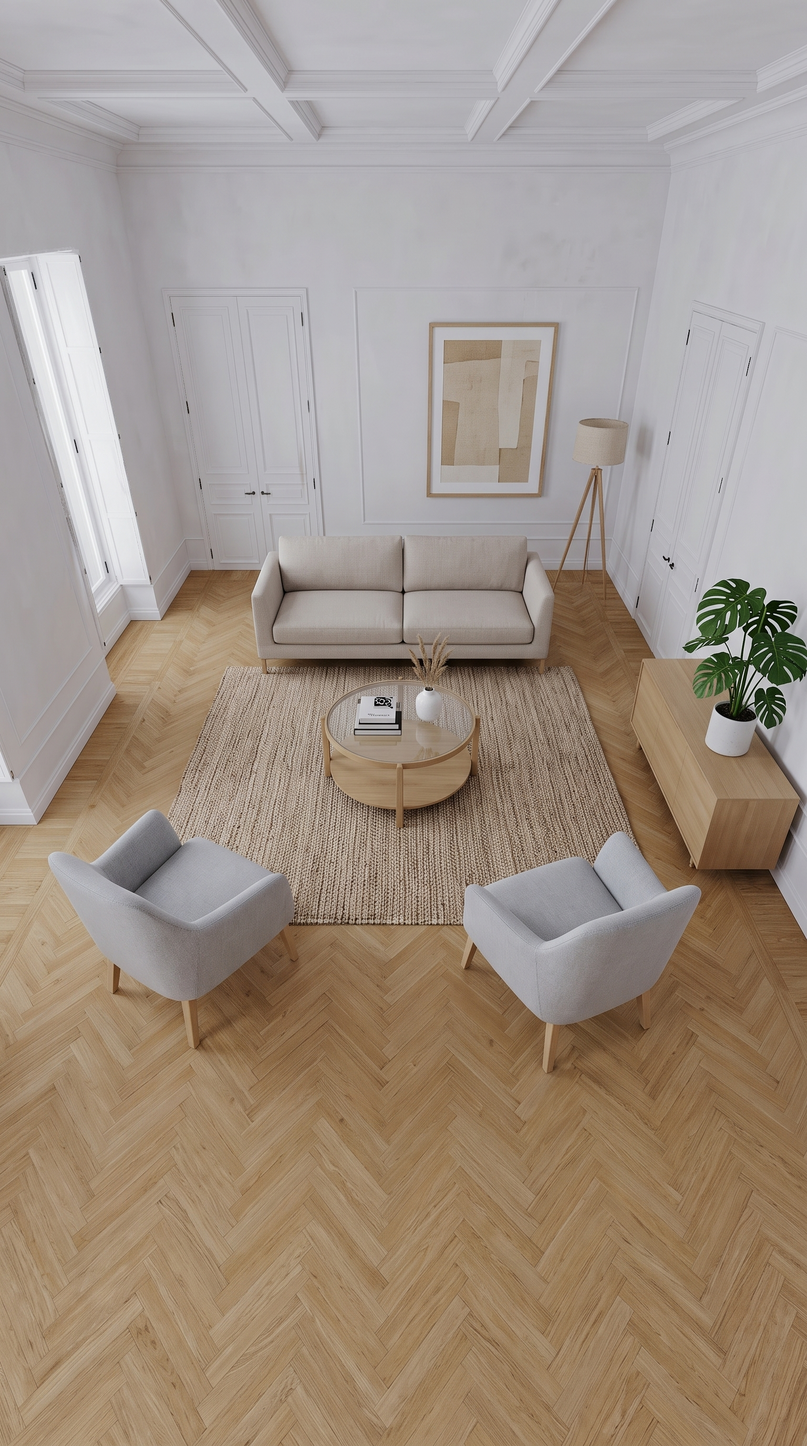
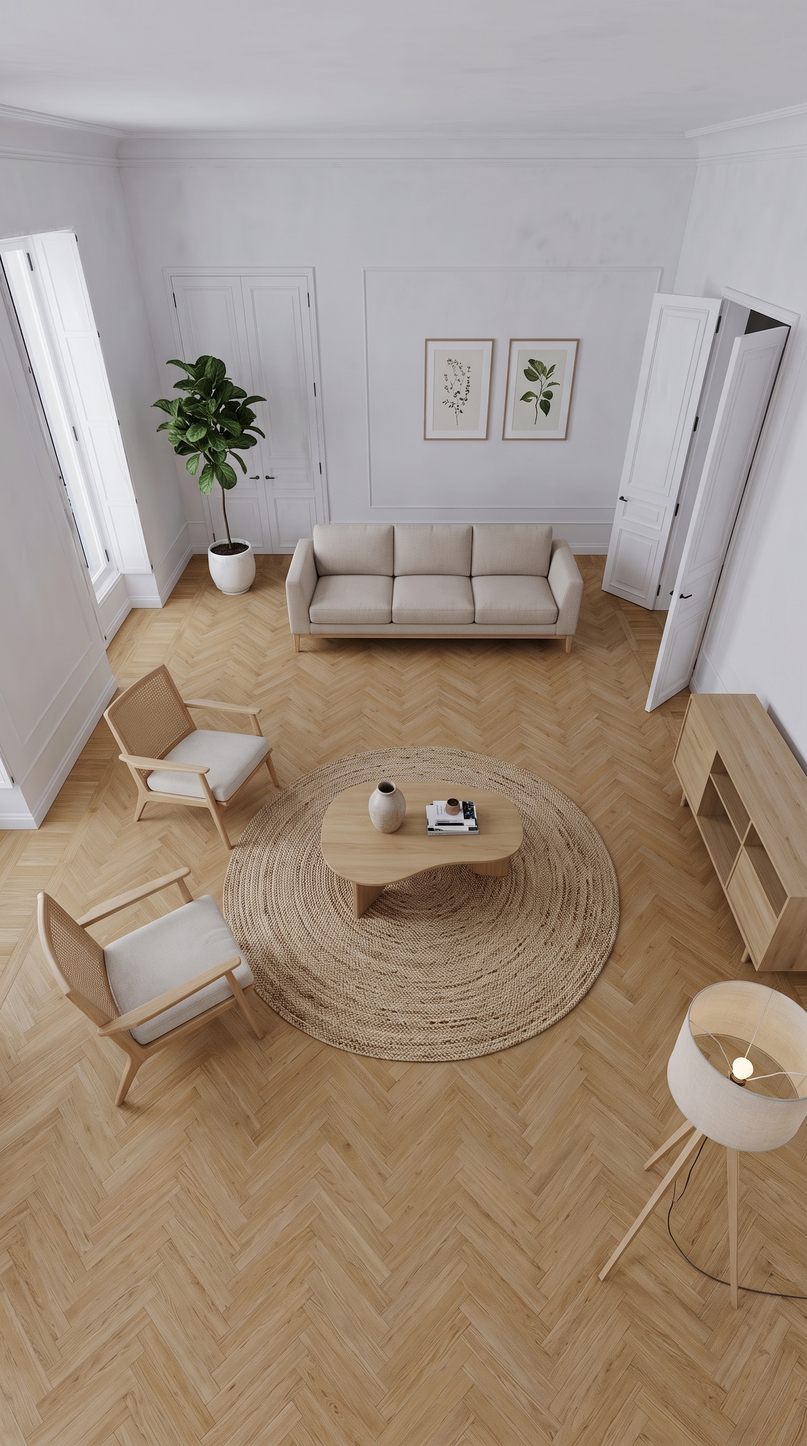
Staging: bottom-corner controls + fix Scandi portrait angle
- Move the "Möbliert sehen" sofa button to the bottom-right corner (concierge
  stays bottom-left, control dome centre) so the bottom bar isn't crowded on
  mobile and the two AI actions bookend it.
- Replace the Scandinavian portrait image with a render whose camera angle
  matches the other two styles (it had drifted to a higher viewpoint).

diff --git a/apps/viewer/src/index.scss b/apps/viewer/src/index.scss
@@ -1892,9 +1892,9 @@ body.measure-active #controlDome {
 // light-sweep + progress bar (the "wird eingerichtet" experience).
 #stagePill {
     position: fixed;
-    // bottom-left row, just right of the concierge toggle, same height as it and
-    // the control dome (all at bottom:14px)
-    left: calc(max(14px, env(safe-area-inset-left)) + 54px);
+    // bottom-RIGHT corner. The concierge sits in the bottom-left, the control
+    // dome in the centre — so the two AI actions bookend the bottom bar.
+    right: max(14px, env(safe-area-inset-right));
     bottom: max(14px, env(safe-area-inset-bottom));
     z-index: 16;
     pointer-events: none;
@@ -2341,9 +2341,8 @@ body.staging-open {
 // demo images must be readable on a portrait screen. Placed after the staging
 // rules so these win at equal specificity. ----
 @media (max-width: 600px) {
-    // smaller, less crowded bottom-left pills (concierge + sofa)
+    // smaller pills on a narrow phone (concierge bottom-left, sofa bottom-right)
     #chatPill #chatToggle { width: 40px; height: 40px; }
-    #stagePill { left: calc(max(14px, env(safe-area-inset-left)) + 52px); }
     #stagePill #stageTrigger { height: 40px; padding: 0 9px; }
 
     // never expand to the label on mobile — it would overlap the control dome;

diff --git a/apps/website/public/viewer/index.css b/apps/website/public/viewer/index.css
@@ -1543,7 +1543,7 @@ body.measure-active #controlDome #domeMeasure .domeIcon--walk {
 
 #stagePill {
   position: fixed;
-  left: calc(max(14px, env(safe-area-inset-left)) + 54px);
+  right: max(14px, env(safe-area-inset-right));
   bottom: max(14px, env(safe-area-inset-bottom));
   z-index: 16;
   pointer-events: none;
@@ -1972,9 +1972,6 @@ body.staging-open #stagePill {
   #chatPill #chatToggle {
     width: 40px;
     height: 40px;
-  }
-  #stagePill {
-    left: calc(max(14px, env(safe-area-inset-left)) + 52px);
   }
   #stagePill #stageTrigger {
     height: 40px;
